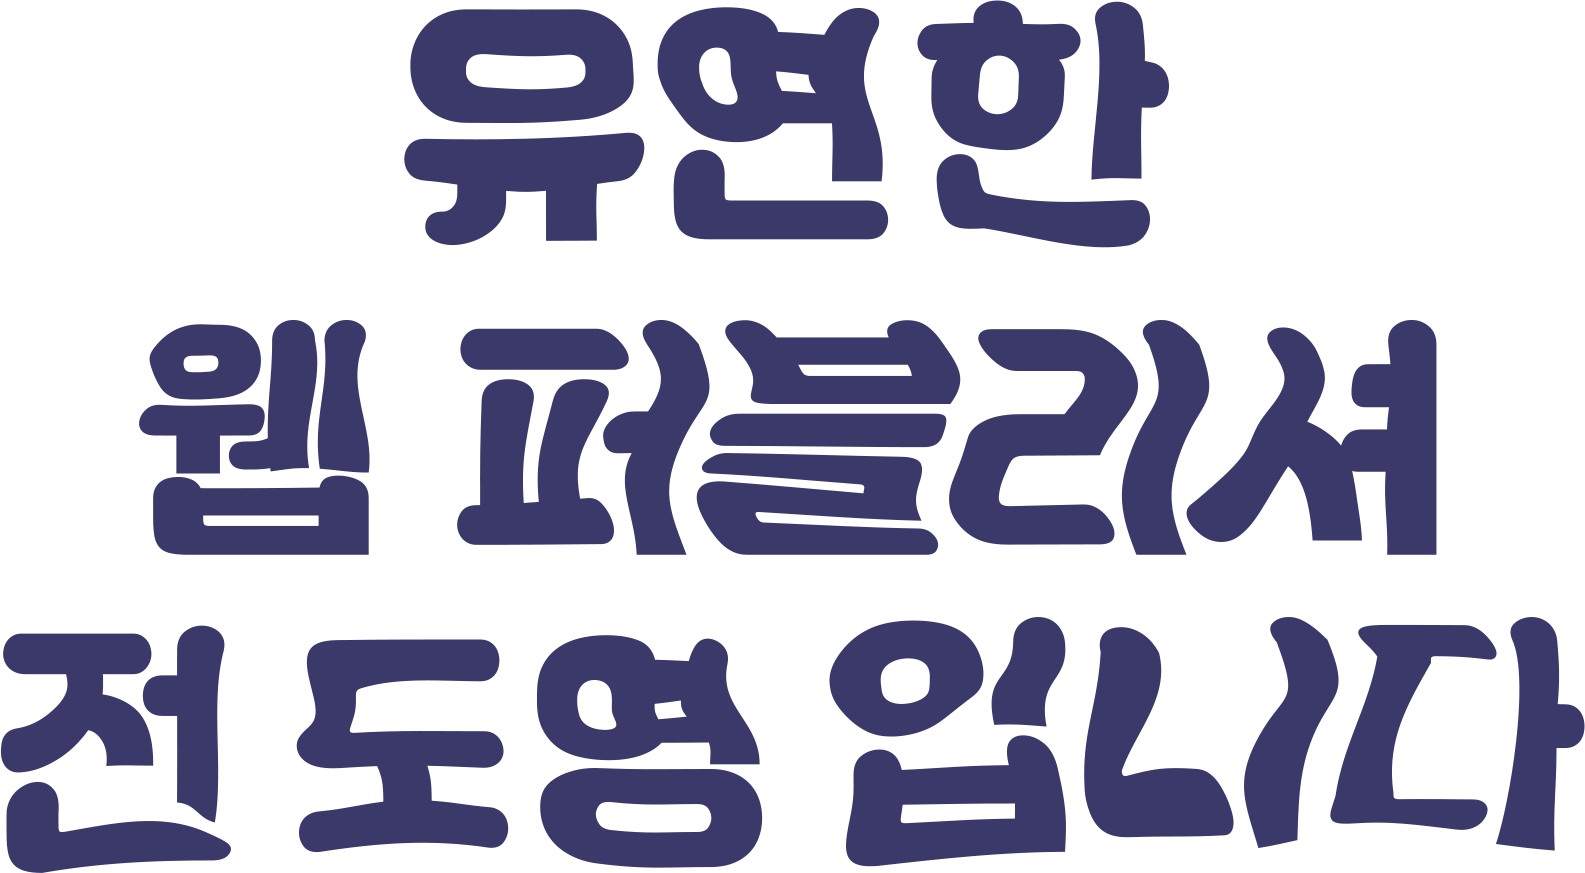
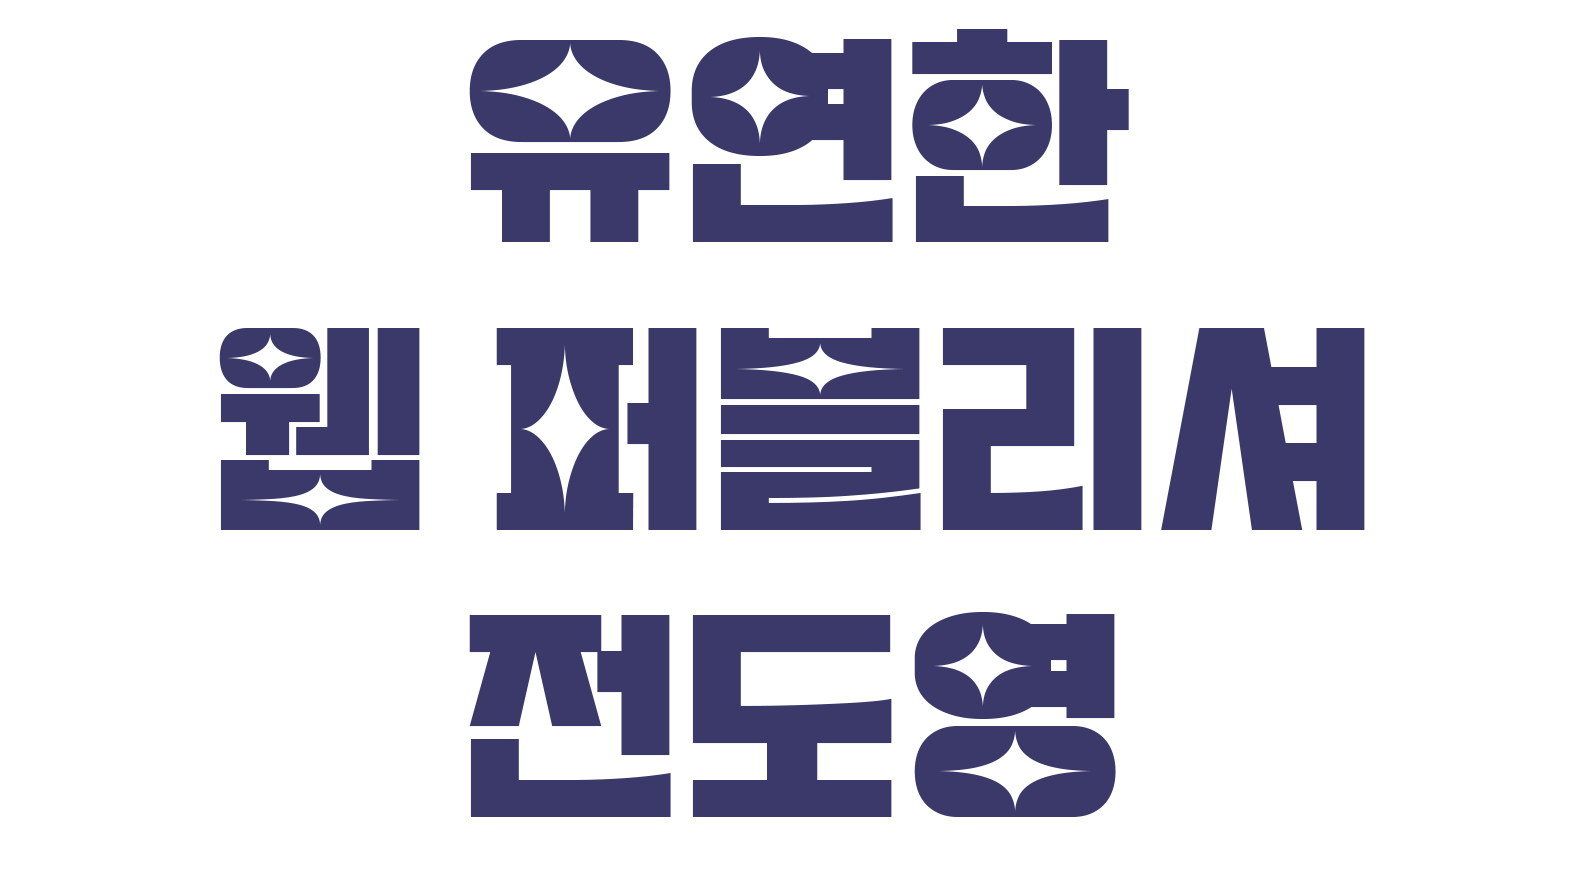
about page done
자기소개 페이지 1차 수정 완료

diff --git a/css/index.css b/css/index.css
@@ -14,6 +14,13 @@ a{text-decoration: none;}
 }
 
 @font-face {
+    font-family: 'PyeongChangPeace-Bold';
+    src: url('https://cdn.jsdelivr.net/gh/projectnoonnu/noonfonts_2206-02@1.0/PyeongChangPeace-Bold.woff2') format('woff2');
+    font-weight: 700;
+    font-style: normal;
+}
+
+@font-face {
     font-family: 'NanumBarunGothic';
     font-style: normal;
     font-weight: 400;
@@ -184,7 +191,7 @@ transform: rotate(-45deg) translateY(-14px);
 }
 
 .main .floating3{
-    width: 610px;
+    width: 650px;
     position: absolute;
     top: 30%;
     left: 50%;
@@ -315,18 +322,18 @@ top: 74%; left: 50%; transform: translateX(-50%); z-index: 999;}
 }
 
 
-
 .section .about-wrap .intro h3{
     width: 220px;
     height: 50px;
     background-color: #fff;
     border: 2.5px solid #383858;
     border-radius: 50px;
-    font-size: 32px;
+    font-size: 36px;
     position: absolute;
     top: -30px;
     left: -5px;
-    font-family: 'yg-jalnan'; 
+    font-family: 'PyeongChangPeace-Bold'; 
+    line-height: 50px;
     color: #383858;
     text-align: center;
 }
@@ -336,9 +343,9 @@ top: 74%; left: 50%; transform: translateX(-50%); z-index: 999;}
 }
 
 .section .about-wrap .intro p{
-    font-size: 17px;
+    font-size: 15px;
     font-weight: 500;
-    margin-top: 10px;  
+    margin-top: 5px;  
     margin-left: 30px;
 }
 
@@ -346,7 +353,7 @@ top: 74%; left: 50%; transform: translateX(-50%); z-index: 999;}
 .section .about-wrap .intro p:last-of-type{
     margin-top: 20px;
     font-size: 20px;
-    grid: column fw 600px;;
+    font-size: 16px;
 }
 
 .section .about-wrap .intro-1{
@@ -367,7 +374,49 @@ top: 74%; left: 50%; transform: translateX(-50%); z-index: 999;}
     height: 220px;
     margin-top: 130px;
     margin-left: 50px;
+    position: relative;
 }
+
+.section .about-wrap .keyword h3{
+    width: 120px;
+    height: 40px;
+    font-size: 20px;
+    font-family: 'yg-jalnan'; 
+    color: #383858;
+    text-align: center;
+}
+
+.section .about-wrap .keyword a{
+   display: block;
+   margin-top: 10px;
+   height: 40px;
+   width: 130px;
+   padding-left: 20px;
+   border: 2px solid #383858;
+   border-radius: 50px;
+   margin-left: 10px;
+   line-height: 40px;
+   color: #fff;
+   font-weight: 800;
+    font-size: 16px;
+    letter-spacing: 1.5px;
+    font-family:'PyeongChangPeace-Bold' ;
+
+}
+
+.section .about-wrap .keyword1{
+    background-color: #eeb073;
+}
+
+.section .about-wrap .keyword2{
+    background-color: #67947d;
+    padding-left: 30px;
+
+}
+.section .about-wrap .keyword3{
+    background-color: #f58aa0;
+}
+
 
 .section .about-wrap .keyword-1{
     width: 210px;
@@ -392,6 +441,36 @@ top: 74%; left: 50%; transform: translateX(-50%); z-index: 999;}
     margin-left: 120px;
 }
 
+.section .about-wrap .cv h3{
+    font-family:'PyeongChangPeace-Bold' ;
+    color: #383858;
+    font-size: 32px;  
+    text-align: center;
+    margin-top: 10px;
+
+}
+
+.section .about-wrap .cv a{
+    display: block;
+    width: 120px;
+    height: 35px;
+    margin: 0 auto;
+    margin-top: 5px;
+    border-radius: 50px;
+    font-size: 20px;
+    text-align: center;
+    line-height: 35px;
+    border: 2px solid #383858;
+    background-color: #fff;
+    font-family:'PyeongChangPeace-Bold' ;
+    color: #383858;
+}
+
+.section .about-wrap .cv a:hover{
+    background-color: #f58aa0;
+    transition: 0.3s;
+}
+
 .section .about-wrap .cv-1{
     width: 210px;
     height: 110px;
@@ -409,12 +488,25 @@ top: 74%; left: 50%; transform: translateX(-50%); z-index: 999;}
     margin-left: 80px;
 }
 
-
+.section .about-wrap .name .name-wrap{
+    margin-left: 30px;
+    margin-top: 25px;
+}
+.section .about-wrap .name h3{
+    font-size: 25px;
+    font-family:'PyeongChangPeace-Bold' ;
+    color: #383858;
+}
+.section .about-wrap .name p{
+    font-size: 16px;
+    margin-top: 10px;
+}
 
 .section .about-wrap .name-1{
     width: 460px;
     height: 250px;
     background-color: #67947d;
+
     position: absolute;
     top: 450px;
     left: 445px;
@@ -427,6 +519,51 @@ top: 74%; left: 50%; transform: translateX(-50%); z-index: 999;}
     height: 220px;
     margin-left: 70px;
 }
+
+
+.section .about-wrap .skill h3{
+    font-size: 27px;
+    color: #383858;
+    font-family: 'yg-jalnan';
+}
+
+.section .about-wrap .skill .skill-wrap{
+    margin-left: 20px;
+
+}
+
+.section .about-wrap .skill p{
+    background-color: #fff;
+    float: left;
+    width: 30px;
+    height: 30px;
+    line-height: 30px;
+    text-align: center;
+    border-radius: 50%;
+    border: 17px solid #000;
+    font-family:'PyeongChangPeace-Bold' ;
+    margin-top: 10px;
+    margin-right: 10px;
+}
+
+.section .about-wrap .skill .ps,
+.section .about-wrap .skill .js{
+border-color: #67947d;
+}
+
+.section .about-wrap .skill .ai,
+.section .about-wrap .skill .html{
+    border-color: #eeb073;
+}
+
+.section .about-wrap .skill .css{
+    border-color: #f58aa0;
+}
+
+.section .about-wrap .skill .ckill-code{
+    clear: both;
+}
+
 
 .section .about-wrap .skill-1{
     width: 270px;
@@ -449,6 +586,7 @@ top: 74%; left: 50%; transform: translateX(-50%); z-index: 999;}
 .work{
     width: 100%;
     position: relative;
+    margin-top: 70px;
 }
 .wrap{
     width: 1217px;
@@ -462,7 +600,8 @@ top: 74%; left: 50%; transform: translateX(-50%); z-index: 999;}
     text-align: center;
     width: 100%;
     margin: 0 auto;
-    margin-bottom: 20px
+    margin-bottom: 20px;
+    margin-top: 70px;
     
 }
 
@@ -570,6 +709,7 @@ top: 74%; left: 50%; transform: translateX(-50%); z-index: 999;}
 
 .clone{
     width: 100%;
+    margin-top: 70px;
 }
 .section  .swiper-slide img{
     width: 100%;
@@ -666,6 +806,7 @@ top: 74%; left: 50%; transform: translateX(-50%); z-index: 999;}
 /* contact 시작 */
 .contact{
     width: 100%;
+    margin-top: 150px;
 }
 
 .contact .contact-wrap{

diff --git a/index.html b/index.html
@@ -96,39 +96,45 @@
                         <p>(1) 부드럽고 연하다.</p>
                         <p>(2) 침착하고 여유가 있다.</p>
                         <p>(3) 생각 따위가 저절로 일어나는 행세가 왕성하다.</p>
-                        <p>유연하다의 여러 의미를 포괄하는 전도영이 되고 싶습니다.</p>
+                        <p>'유연하다'라는 말은 생각보다 많은 의미를 포괄하고 있습니다. 
+                        </br>이러한 다양한 의미를 실현시키는 퍼블리셔가 되고 싶습니다.
+                        </p>
                     </div>
                     <div class="content-box intro-1"></div>
                     <div class="content-box keyword">
-                    <h4>keyword</h4>
-                        <a href="#">#부지런한</a>
-                        <a href="#">#부지런한</a>
-                        <a href="#">#부지런한</a>
+                        <h3>keyword</h3>
+                        <a href="#" class="keyword1"> imaginative</a>
+                        <a href="#" class="keyword2"> positive</a>
+                        <a href="#" class="keyword3"> attractive</a>
                     </div>
                     <div class="content-box keyword-1"></div>
                     <div class="content-box line-feed"></div>
                     <div class="content-box cv">
                         <h3>이력서</h3>
-                        <a href="#">click</a>
+                        <a href="images/pf/전도영_이력서.pdf" target='_blank'>click</a>
                     </div>
                     <div class="content-box cv-1"></div>
                     <div class="content-box name">
-                        <h3>전도영</h3>
-                        <p>1997 07 10</p>
-                        <p>대구광역시 달서구 도원동</p>
-                        <p>안동대학교 국어국문학과 경영학과 졸업</p>
-                        <p>대구 그린컴퓨터 아트 학원</p>
-                        <p>반응형 웹디자인 (UIUX) 웹퍼블리셔 760시간 수료 </p>
+                        <div class="name-wrap">
+                            <h3>전도영</h3>
+                            <p>1997. 07. 10.</p>
+                            <p>대구광역시 달서구 도원동</p>
+                            <p>안동대학교 국어국문학과 경영학과 졸업</p>
+                            <p>대구 그린컴퓨터 아트 학원</p>
+                            <p>반응형 웹디자인 ( UI &amp; UX ) 웹퍼블리셔 과정 760시간 수료 </p>
+                        </div>
                     </div>
 
                     <div class="content-box name-1"></div>
                     <div class="content-box skill">
                         <h3>skill</h3>
-                        <p>PS</p>
-                        <p>Ai</p>
-                        <p>html</p>
-                        <p>css</p>
-                        <p>Js</p>
+                        <div class="skill-wrap">    
+                            <p class="ps">PS</p>
+                            <p class="ai" >Ai</p>
+                            <p class="ckill-code html">html</p>
+                            <p class="css" >css</p>
+                            <p class="js" >Js</p>
+                        </div>
                     </div>
                     <div class="content-box skill-1"></div>
                 </div>
@@ -144,13 +150,13 @@
 
                 <div class="text">
                     <div class="explain">
-                        <p>참여기간 : 2개월 , 참여율 95%</p>
+                        <p>참여기간 : 2개월 , 참여율 100%</p>
                         <span>제가 생각하는 저의 이미지에 맞춰 포트폴리오를 제작했습니다.</span>
                         <span>풀페이지와 슬릭 슬라이더를 사용하여 홈페이지를 구성하였으며</span>
                         <span>'유연함' 이라는 단어에 초점을 맞춰 제작하였습니다.</span>
                     </div>
                     <div class="web-btn">
-                        <a href="images/pf/pf-style.jpg" class="button">스타일 가이드</a>
+                        <a href="images/pf/pf-style.jpg" target='_blank' class="button">스타일 가이드</a>
                         <a href="images/pf/pf-style.jpg" target="_blank" class="button-m">자세히보기</a>
                     </div>
                 </div>
